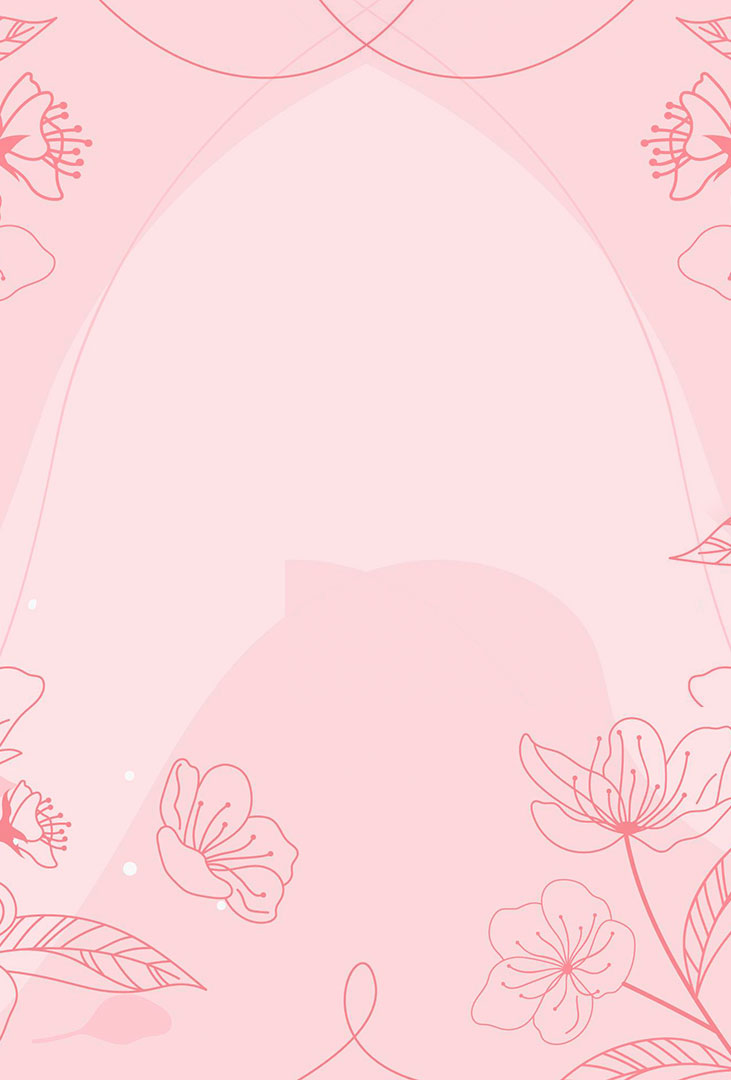
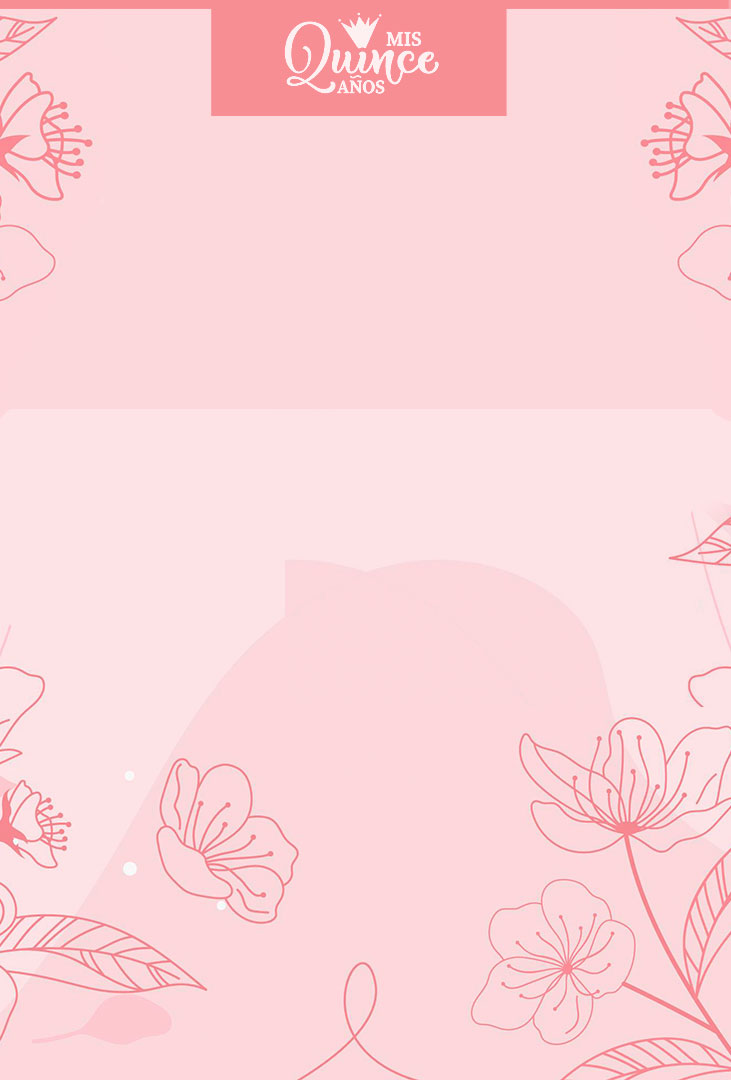
dom61

Changed region(s): [[0.0, 0.0, 1.0, 0.1222]]

diff --git a/css/estilos.css b/css/estilos.css
@@ -33,16 +33,22 @@
     text-align: center; }
     #contador .contador .cartel {
       background-color: #fc7291;
-      border-top: 5px solid #ffffff;
+      border-top: 5px solid #b04b61;
       opacity: 0.7;
       padding: 16px;
       margin: 5px;
       width: 200px;
       color: black; }
+    #contador .contador p {
+      color: #fc7291;
+      font-size: 24px;
+      font-family: 'DM Serif Display', serif;
+      margin: 0px; }
     #contador .contador h2 {
       color: #fc7291;
-      font-size: 52gipx;
-      font-family: 'DM Serif Display', serif; }
+      font-size: 60px;
+      font-family: 'DM Serif Display', serif;
+      margin: 0px; }
     #contador .contador h3 {
       color: #ffffff;
       font-size: 30px;
@@ -50,8 +56,9 @@
       padding-bottom: 16px; }
     #contador .contador h4 {
       color: #2a2a2a;
-      font-size: 30px;
-      font-family: 'DM Serif Display', serif; }
+      font-size: 26px;
+      font-family: 'DM Serif Display', serif;
+      margin: 0px; }
     #contador .contador #dias {
       font-size: 70px;
       font-family: 'DM Serif Display', serif;

diff --git a/scss/estilos.scss b/scss/estilos.scss
@@ -36,17 +36,24 @@
     text-align: center; 
     .cartel{      
       background-color: #fc7291;      
-      border-top: 5px solid #ffffff;
+      border-top: 5px solid #b04b61;
       opacity: 0.7;
       padding: 16px;
       margin: 5px;
       width: 200px;
       color: rgb(0, 0, 0);
     }
+    p{
+      color: #fc7291;
+      font-size: 24px;
+      font-family: 'DM Serif Display', serif;
+      margin: 0px;
+    }
     h2{
       color: #fc7291;
-      font-size: 52gipx;
+      font-size: 60px;
       font-family: 'DM Serif Display', serif;
+      margin: 0px;
     }
     h3{
       color: #ffffff;
@@ -56,8 +63,9 @@
     }
     h4{
       color: #2a2a2a;
-      font-size: 30px;
+      font-size: 26px;
       font-family: 'DM Serif Display', serif;
+      margin: 0px;
     }
     #dias{
       font-size: 70px;

diff --git a/index.html b/index.html
@@ -75,7 +75,8 @@
     <!--CONTADOR -->
     <section id="contador">
         <div class="contador container pt-5 pb-5 container">
-            <h2>Mis 15 Años</h2>
+            <br>
+            <br>
             <h2>Ticiana</h2>
             <h4>29 de Diciembre - 21:30Hs.</h4>
             <div class="row justify-content-center">
